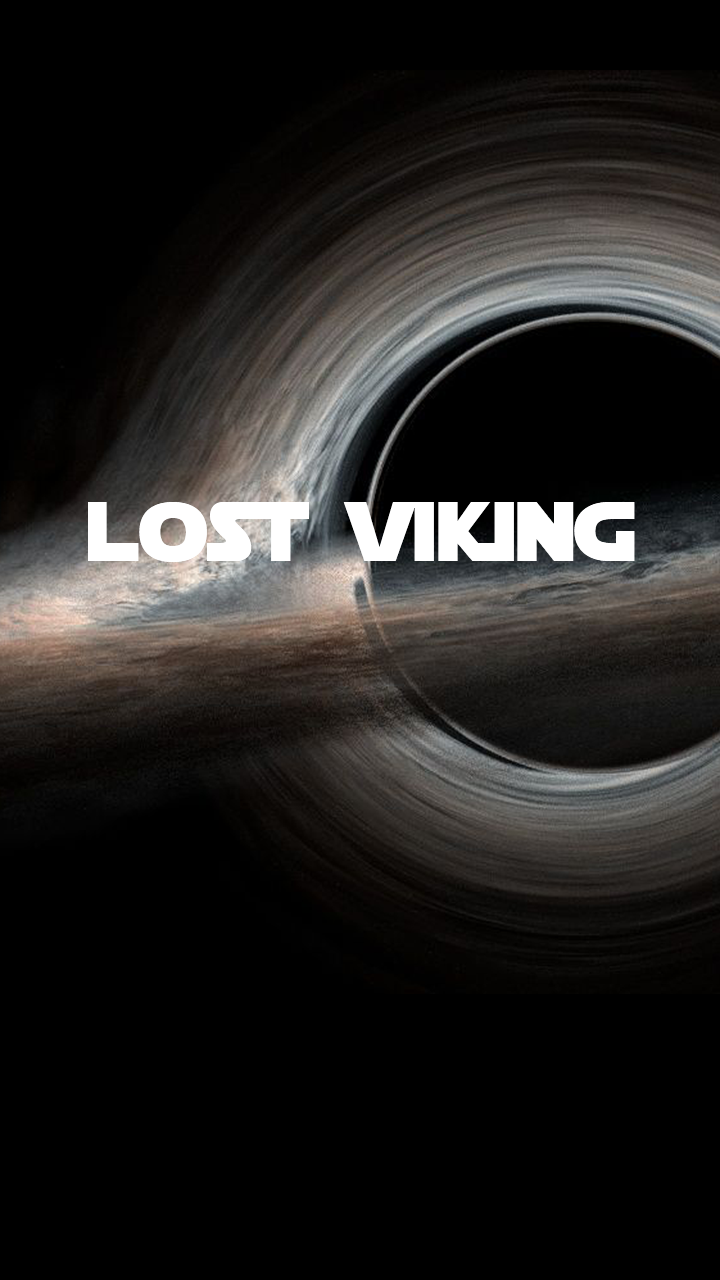
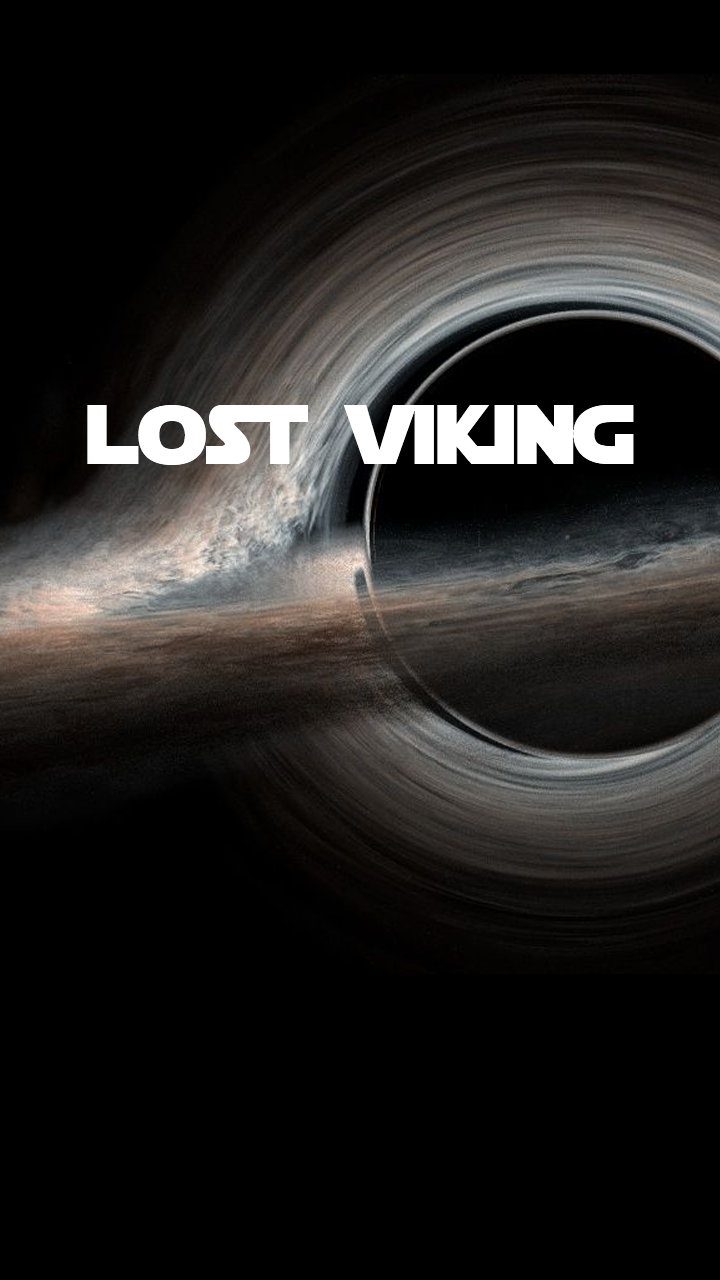
GameOver

Changed region(s): [[0.0, 0.1875, 1.0, 0.7188], [0.9472, 0.25, 1.0, 0.2812], [0.9778, 0.1875, 1.0, 0.2188]]

diff --git a/core/src/com/mygdx/lifeisagame/Screens/GameOverScreen.java b/core/src/com/mygdx/lifeisagame/Screens/GameOverScreen.java
@@ -1,5 +1,126 @@
 package com.mygdx.lifeisagame.Screens;
 
-public class GameOverScreen {
+import com.badlogic.gdx.Gdx;
+import com.badlogic.gdx.Screen;
+import com.badlogic.gdx.audio.Music;
+import com.badlogic.gdx.graphics.GL20;
+import com.badlogic.gdx.graphics.OrthographicCamera;
+import com.badlogic.gdx.graphics.Texture;
+import com.badlogic.gdx.graphics.g2d.TextureRegion;
+import com.badlogic.gdx.math.Vector2;
+import com.badlogic.gdx.physics.box2d.World;
+import com.badlogic.gdx.scenes.scene2d.Stage;
+import com.badlogic.gdx.utils.Array;
+import com.badlogic.gdx.utils.viewport.FitViewport;
+import com.badlogic.gdx.utils.viewport.Viewport;
+import com.mygdx.LostViking.LostViking;
+import com.mygdx.lifeisagame.Player.Player;
 
+public class GameOverScreen implements Screen {
+	private static final int BUTTON_WIDTH=200;
+	private static final int BUTTON_HEIGHT=100;
+	private static final int SCORETEXT_Y=750;
+	private static final int RETRY_BUTTON_Y=500;
+	private static final int EXIT_BUTTON_Y=400;
+	private Viewport viewPort;
+	private Stage stage;
+	private Player player;
+	private Music music;
+	LostViking game;
+	
+	Texture scoreText;
+	Texture retryButtonActive;
+	Texture retryButtonInactive;
+	Texture exitButtonActive;
+	Texture exitButtonInactive;
+	Texture backgroundGameOver;
+	public GameOverScreen(LostViking game)
+	{
+		viewPort = new FitViewport(LostViking.WIDTH,LostViking.HEIGHT,new OrthographicCamera());
+        stage = new Stage(viewPort, ((LostViking) game).batch);
+		this.game=game;
+		
+		scoreText=new Texture("GameOver/scoreText.png");
+		backgroundGameOver=new Texture("GameOver/gameover.png");
+		retryButtonActive= new Texture("Gameover/activeretry.png");
+		retryButtonInactive=new Texture("Gameover/inactiveretry.png");
+		exitButtonActive= new Texture("Gameover/activeexit.png");
+		exitButtonInactive=new Texture("Gameover/inactiveexit.png");
+		music = LostViking.manager.get("MainMenu/backsound.mp3",Music.class);
+  		music.setLooping(true);
+  		music.play();
+	}
+	@Override
+	public void show() {
+		
+	}
+
+	@Override
+	public void render(float delta) {
+		Gdx.gl.glClearColor(1,0,0,1);
+		Gdx.gl.glClear(GL20.GL_COLOR_BUFFER_BIT);
+		int a=(LostViking.WIDTH-BUTTON_WIDTH)/2;
+		stage.draw();
+		game.batch.begin();
+		game.batch.draw(backgroundGameOver,0,0,720,1280);
+		game.batch.draw(scoreText,a,SCORETEXT_Y,BUTTON_WIDTH,BUTTON_HEIGHT);
+		System.out.println("X : "+Gdx.input.getX());
+		System.out.println("Y : "+Gdx.input.getY());
+		//Retry
+		if(Gdx.input.getX()<=450&&Gdx.input.getX()>=265&&Gdx.input.getY()<=620&&Gdx.input.getY()>=580)
+		{
+			game.batch.draw(retryButtonActive, a,RETRY_BUTTON_Y,BUTTON_WIDTH,BUTTON_HEIGHT);
+			if (Gdx.input.justTouched()) {
+            	music.stop();
+                this.dispose();
+                World tempWorldGame = new World(new Vector2(0,0),true);
+                GameScreen screenGame = new GameScreen(game, tempWorldGame, new Player(tempWorldGame, new Vector2(500, 100)), "Maps/Map.tmx");
+                game.setScreen(screenGame);
+            }
+		}
+		else
+		{
+			game.batch.draw(retryButtonInactive, a,RETRY_BUTTON_Y,BUTTON_WIDTH,BUTTON_HEIGHT);
+		}
+		
+		//Exit
+		if(Gdx.input.getX()<=430&&Gdx.input.getX()>=285&&Gdx.input.getY()<=695&&Gdx.input.getY()>=655)
+		{
+			game.batch.draw(exitButtonActive, a,EXIT_BUTTON_Y,BUTTON_WIDTH,BUTTON_HEIGHT);
+			if (Gdx.input.justTouched()) {
+				music.stop();
+				Gdx.app.exit();
+            }
+		}
+		else
+		{
+			game.batch.draw(exitButtonInactive, a,EXIT_BUTTON_Y,BUTTON_WIDTH,BUTTON_HEIGHT);
+		}
+		game.batch.end();
+	}
+
+	@Override
+	public void resize(int width, int height) {
+		
+	}
+
+	@Override
+	public void pause() {
+		
+	}
+
+	@Override
+	public void resume() {
+		
+	}
+
+	@Override
+	public void hide() {
+		
+	}
+
+	@Override
+	public void dispose() {
+		
+	}
 }

diff --git a/core/src/com/mygdx/lifeisagame/Screens/MainMenuScreen.java b/core/src/com/mygdx/lifeisagame/Screens/MainMenuScreen.java
@@ -21,7 +21,7 @@ public class MainMenuScreen implements Screen {
 	private static final int PLAY_BUTTON_WIDTH=200;
 	private static final int PLAY_BUTTON_HEIGHT=100;
 	private static final int PLAY_BUTTON_Y=500;
-	private static final int EXIT_BUTTON_Y=350;
+	private static final int EXIT_BUTTON_Y=400;
 	private Viewport viewPort;
 	private Stage stage;
 	private Player player;
@@ -56,19 +56,20 @@ public class MainMenuScreen implements Screen {
 	public void render(float delta) {
 		Gdx.gl.glClearColor(1,0,0,1);
 		Gdx.gl.glClear(GL20.GL_COLOR_BUFFER_BIT);
+		stage.draw();
 		game.batch.begin();
 		
-		game.batch.draw(backgroundMainMenu,0,0);
+		game.batch.draw(backgroundMainMenu,0,0,720,1280);
 		int a =(LostViking.WIDTH-PLAY_BUTTON_WIDTH)/2;
 		int b =(LostViking.WIDTH-EXIT_BUTTON_WIDTH)/2;
 		//Play
-		if(Gdx.input.getX()<=440&&Gdx.input.getX()>=270&&Gdx.input.getY()<=530&&Gdx.input.getY()>=480)
+		if(Gdx.input.getX()<=440&&Gdx.input.getX()>=270&&Gdx.input.getY()<=620&&Gdx.input.getY()>=580)
 		{
 			game.batch.draw(playButtonActive, a,PLAY_BUTTON_Y,PLAY_BUTTON_WIDTH,PLAY_BUTTON_HEIGHT);
 			if (Gdx.input.justTouched()) {
             	music.stop();
                 this.dispose();
-                World tempWorld = new World(new Vector2(0, -10),true);
+                World tempWorld = new World(new Vector2(0, 0),true);
                 GameScreen screenGame = new GameScreen(game, tempWorld, new Player(tempWorld, new Vector2(500, 100)), "Maps/Map.tmx");
                 game.setScreen(screenGame);
             }
@@ -79,7 +80,7 @@ public class MainMenuScreen implements Screen {
 		}
 		
 		//Exit
-		if(Gdx.input.getX()<=430&&Gdx.input.getX()>=285&&Gdx.input.getY()<=675&&Gdx.input.getY()>=630)
+		if(Gdx.input.getX()<=430&&Gdx.input.getX()>=285&&Gdx.input.getY()<=690&&Gdx.input.getY()>=655)
 		{
 			game.batch.draw(exitButtonActive, b,EXIT_BUTTON_Y,EXIT_BUTTON_WIDTH,EXIT_BUTTON_HEIGHT);
 			if (Gdx.input.justTouched()) {

diff --git a/core/src/com/mygdx/LostViking/LostViking.java b/core/src/com/mygdx/LostViking/LostViking.java
@@ -7,6 +7,7 @@ import com.badlogic.gdx.graphics.g2d.SpriteBatch;
 import com.badlogic.gdx.math.Vector2;
 import com.badlogic.gdx.physics.box2d.World;
 import com.mygdx.lifeisagame.Player.Player;
+import com.mygdx.lifeisagame.Screens.GameOverScreen;
 import com.mygdx.lifeisagame.Screens.GameScreen;
 import com.mygdx.lifeisagame.Screens.MainMenuScreen;
 
